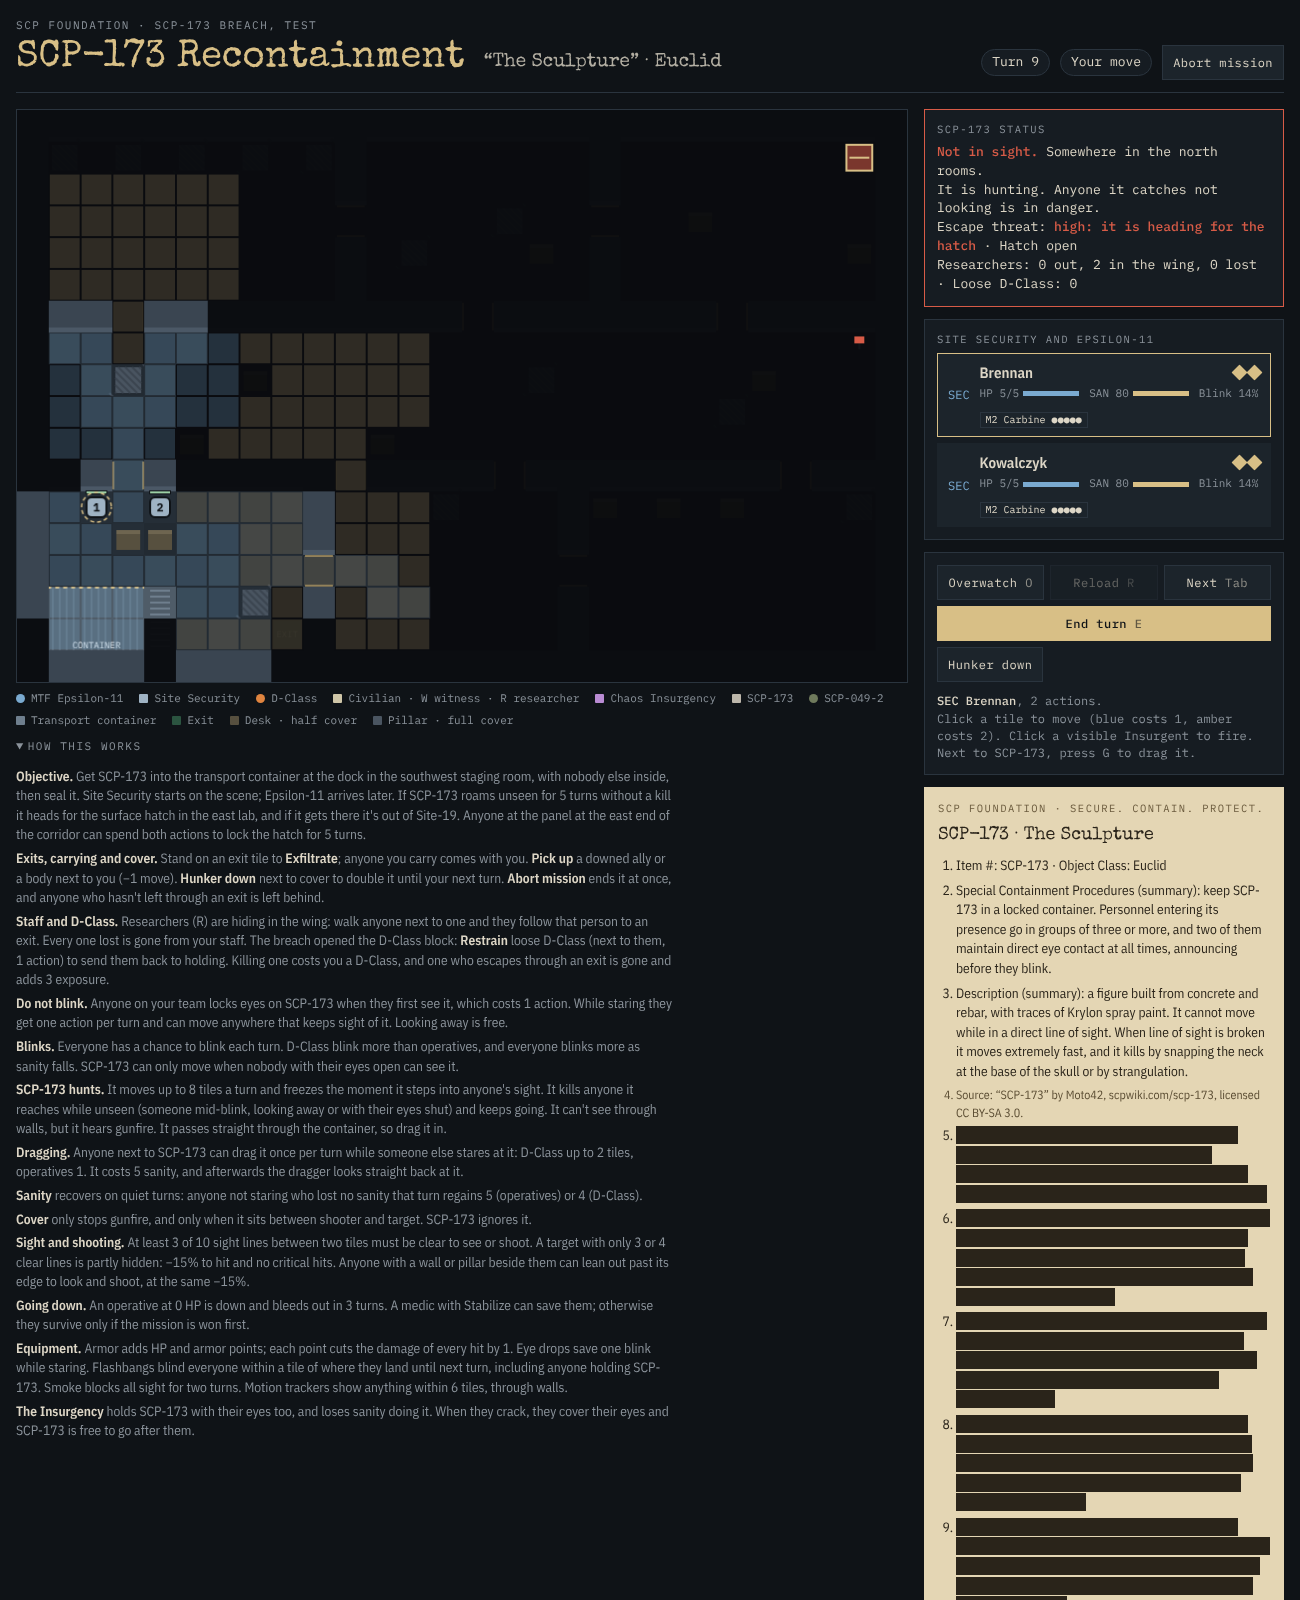
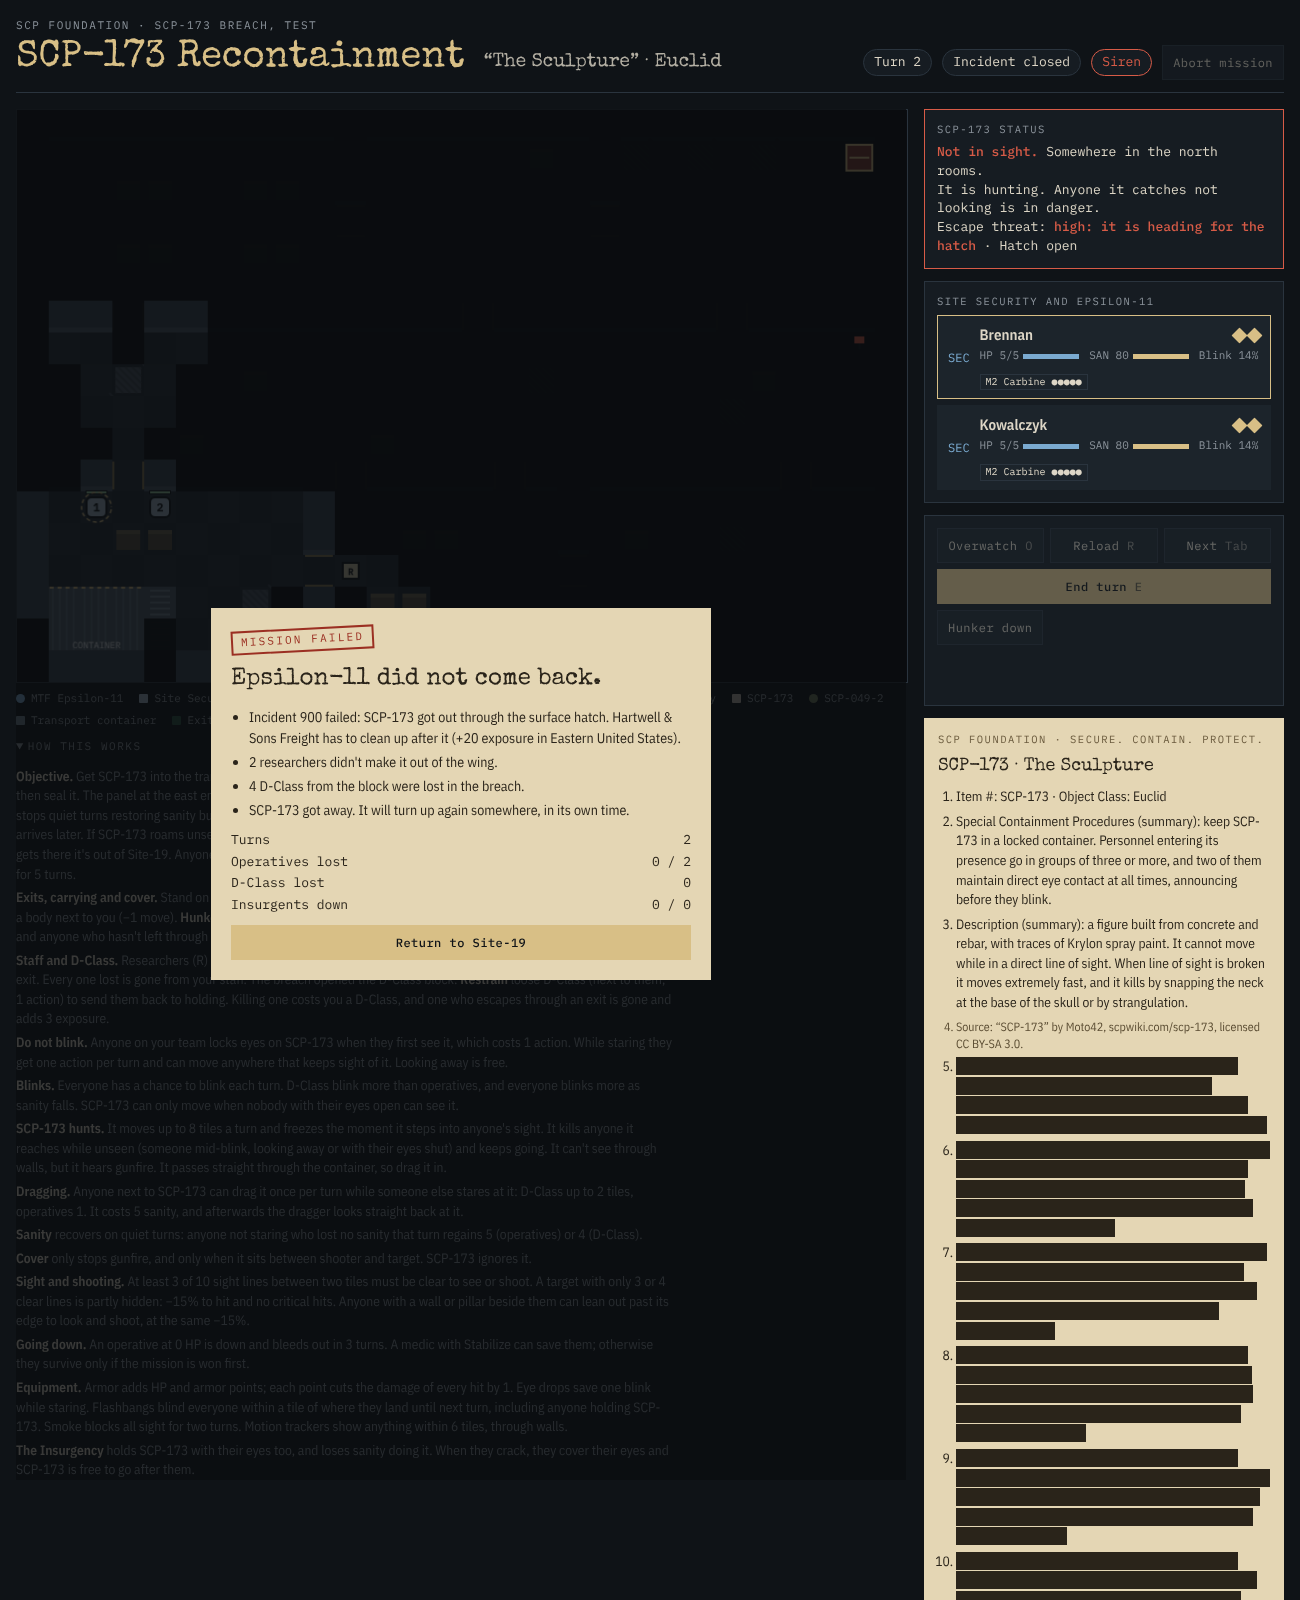
Blast doors and the breach siren
At the Wing C panel guards can seal up to two doorways with blast doors
(SCP-106 walks through them) and silence the breach siren, which stops
quiet-turn sanity recovery but hides gunfire from SCP-173. Completes
phase 3C.

diff --git a/src/ui/missionView.ts b/src/ui/missionView.ts
@@ -29,7 +29,7 @@ import type { MissionResult, Unit } from "../game/types";
 import { esc } from "./util";
 import { createRenderer } from "./render";
 import { ESCAPE_AT, escaping } from "../game/scp173";
-import { ESCORT_TURNS } from "../game/turn";
+import { ESCORT_TURNS, MAX_SEALED } from "../game/turn";
 import { freshBodies, isCalm, isStaggered } from "../game/scp049";
 import { bait, isFeeding } from "../game/scp106";
 import { MAPS } from "../data/maps";
@@ -44,6 +44,7 @@ const TEMPLATE = `
     <div class="turnbox">
       <span class="pill" id="turnPill">Turn 1</span>
       <span class="pill" id="phasePill">Your move</span>
+      <span class="pill hot" id="sirenPill" hidden title="The breach siren: nobody recovers sanity on quiet turns, but SCP-173 can't hear where shots come from. Silence it at the panel.">Siren</span>
       <span class="pill" id="nightPill" hidden title="Night: everyone sees 4 tiles less, except inside a flare's light.">Night</span>
       <span class="pill" id="concealPill" hidden title="Insurgents haven't noticed the team. They only spot you within 4 tiles. Firing or throwing anything gives you away.">Concealed</span>
       <button class="act" id="evacBtn" type="button" title="Ends the mission. Anyone who hasn't left through an exit is left behind.">Abort mission</button>
@@ -160,7 +161,7 @@ export function mountMission(root: HTMLElement, onReturn: () => void, debrief: (
     $("objRule").after(exits);
   }
   if (kind === "breach" && has173) {
-    $("objRule").innerHTML = `<b>Objective.</b> Get SCP-173 into the transport container at the dock in the southwest staging room, with nobody else inside, then seal it. Site Security starts on the scene; Epsilon-11 arrives later. If SCP-173 roams unseen for ${ESCAPE_AT} turns without a kill it heads for the surface hatch in the east lab, and if it gets there it's out of Site-19. Anyone at the panel at the east end of the corridor can spend both actions to lock the hatch for ${S.setup.mods.lockdownTurns} turns.`;
+    $("objRule").innerHTML = `<b>Objective.</b> Get SCP-173 into the transport container at the dock in the southwest staging room, with nobody else inside, then seal it. The panel at the east end of the corridor also seals blast doors (up to ${MAX_SEALED}) and silences the breach siren, which stops quiet turns restoring sanity but hides your gunfire from SCP-173. Site Security starts on the scene; Epsilon-11 arrives later. If SCP-173 roams unseen for ${ESCAPE_AT} turns without a kill it heads for the surface hatch in the east lab, and if it gets there it's out of Site-19. Anyone at the panel at the east end of the corridor can spend both actions to lock the hatch for ${S.setup.mods.lockdownTurns} turns.`;
   }
   const cv = $("cv") as HTMLCanvasElement;
   const draw = createRenderer(cv);
@@ -241,6 +242,7 @@ export function mountMission(root: HTMLElement, onReturn: () => void, debrief: (
     $("phasePill").className = "pill" + (S.phase === "anomaly" ? " hot" : "");
     $("concealPill").hidden = !S.concealed;
     $("nightPill").hidden = !S.setup.night;
+    $("sirenPill").hidden = !S.siren;
 
     const sc = $("statusCard"), line = $("statusLine");
     if (S.has106) {
@@ -342,7 +344,8 @@ export function mountMission(root: HTMLElement, onReturn: () => void, debrief: (
     else if (!can) h = S.over ? "" : "Enemy activity…";
     else if (sel) {
       const hv = S.hover && unitAt(S.hover.x, S.hover.y);
-      if (S.mode === "lead") h = `<b>SCP-049 is listening.</b>\nClick a green tile to lead it there (up to 3 tiles), or press Escape to leave it where it stands.`;
+      if (S.mode === "doors") h = `<b>Blast doors.</b>\nClick a doorway to seal it (up to ${MAX_SEALED}) or to open a sealed one. Escape to cancel.`;
+      else if (S.mode === "lead") h = `<b>SCP-049 is listening.</b>\nClick a green tile to lead it there (up to 3 tiles), or press Escape to leave it where it stands.`;
       else if (S.mode === "ability" && S.ability) h = `<b>${esc(full(sel))}: ${abilityName(S.ability)}.</b>\n${esc(abilityDesc(S.ability))} Click a highlighted target.`;
       else if (S.mode === "throw" && S.throwing) h = `<b>${esc(full(sel))}: choose where to throw the ${ITEM_NAMES[S.throwing.id].toLowerCase()}.</b>\nLit tiles are in range and in sight. It covers the target tile and every tile around it. Throwing ends their turn.`;
       else if (S.mode === "drag") h = `<b>${esc(sel.name)}: choose where to drag SCP-173.</b>\nOrange tiles keep it in someone else's sight the whole way. Dragging ends their turn.`;

diff --git a/src/game/abilities.ts b/src/game/abilities.ts
@@ -34,11 +34,13 @@ export const ABILITIES: AbilityDef[] = [
   { perk: "exfil", label: "Exfiltrate", target: "self", when: u => onExit(u), desc: "Leave the mission through this exit. Anyone you carry, and researchers following you, come too." },
   { perk: "hunker", label: "Hunker down", target: "self", endsTurn: true, when: u => !u.carrying && hasCover(u), desc: "Get low behind cover: it counts double until your next turn." },
   { perk: "calm", label: "Calm SCP-049", target: "doctor", desc: "Talk SCP-049 down from within 3 tiles (6 sanity). It won't act on its next turn, and you lead it up to 3 tiles now." },
+  { perk: "doors", label: "Blast doors", target: "panel", desc: "At the panel: seal a doorway with a blast door, or open one (up to 2 sealed). Sealed doors block everyone but SCP-106." },
+  { perk: "siren", label: "Silence the siren", target: "panel", desc: "At the panel: switch the breach siren off or on. While it wails nobody recovers sanity, but SCP-173 can't hear where your shots come from." },
   { perk: "lockdown", label: "Lock the hatch", target: "panel", endsTurn: true, desc: "At the lockdown panel: seal the surface hatch so SCP-173 can't get out that way for a few turns. Takes both actions." },
   { perk: "dose", label: "Dose with amnestics", target: "witness", desc: "Give an adjacent witness amnestics. They forget what they saw and stop running." },
 ];
 
-const UNIVERSAL: AbilityId[] = ["secure", "dose", "lockdown", "calm", "restrain", "pickup", "drop", "exfil", "hunker"];
+const UNIVERSAL: AbilityId[] = ["secure", "dose", "lockdown", "doors", "siren", "calm", "restrain", "pickup", "drop", "exfil", "hunker"];
 const onExit = (u: Unit) => L.exitMap[u.y * L.W + u.x] === 0;
 const hasCover = (u: Unit) => DIRS.some(([dx, dy]) => { const t = tileAt(u.x + dx, u.y + dy); return t === WALL || t === FULL || t === HALF || t === STEEL; });
 const knows = (u: Unit, p: AbilityId) => UNIVERSAL.includes(p)
@@ -70,7 +72,9 @@ export function abilityTargets(u: Unit, p: AbilityId): Unit[] {
     }
     case "panel": {
       const pn = L.def.panel;
-      return pn && S.has173 && !S.sealed && !u.staring && S.lockedUntil < S.turn && cheb(u.x, u.y, pn[0], pn[1]) <= 1 ? [u] : [];
+      const at = !!pn && !u.staring && cheb(u.x, u.y, pn[0], pn[1]) <= 1;
+      if (p === "doors" || p === "siren") return at && S.setup.kind === "breach" ? [u] : [];
+      return at && S.has173 && !S.sealed && S.lockedUntil < S.turn ? [u] : [];
     }
     case "ally": return team().filter(a => adjacent(u, a) && (p === "medkit" ? a.hp < a.maxHp && a.side === "mtf" : a.san < maxSanOf(a)));
     case "downed": return S.units.filter(a => a.alive && a.downed && !a.stabilized && adjacent(u, a));
@@ -106,6 +110,7 @@ export function startAbility(p: AbilityId, flash: (t: string) => void) {
   if (S.mode === "ability" && S.ability === p) { S.mode = null; S.ability = null; hooks.update(); return; }
   const why = abilityCheck(u, p);
   if (why) { flash(why); return; }
+  if (p === "doors") { if (u.ap < 1) { flash("No actions left this turn."); return; } S.mode = "doors"; hooks.update(); return; }
   if (def(p).target === "self" || def(p).target === "panel") { useAbility(u, p, u); return; }
   if (def(p).target === "doctor") { useAbility(u, p, S.statue); return; }
   S.mode = "ability"; S.ability = p; S.pending = null;
@@ -164,6 +169,10 @@ export function useAbility(u: Unit, p: AbilityId, t: Unit) {
       S.mode = "lead"; S.selected = u;
       hooks.update();
       return;
+    case "siren":
+      S.siren = !S.siren;
+      log(S.siren ? `${full(u)} switches the breach siren back on.` : `${full(u)} silences the breach siren. In the quiet, everyone can think again, and anything listening can hear the shots.`, "key");
+      break;
     case "lockdown":
       S.lockedUntil = S.turn + S.setup.mods.lockdownTurns;
       log(`${full(u)} throws the lockdown: the surface hatch is sealed until turn ${S.lockedUntil + 1}.`, "good");

diff --git a/src/game/turn.ts b/src/game/turn.ts
@@ -1,5 +1,5 @@
 // Player actions and the turn cycle: your move, SCP-173, the Insurgency, then loose D-Class.
-import { FLOOR, HALF, L, TS, cheb, inContainer, nearContainer, pathTo, bfs, canStep, passable, setSlow, setVault, tileAt, DIRS, type Pt } from "../core/grid";
+import { FLOOR, HALF, L, STEEL, TS, area, cheb, inContainer, nearContainer, pathTo, bfs, canStep, passable, setSlow, setVault, tileAt, DIRS, type Pt } from "../core/grid";
 import { setSmoke, sightFrom } from "../core/sight";
 import { activeGun, damage, fire, kill, moveUnit } from "./combat";
 import { TYPES } from "../data/weapons";
@@ -194,6 +194,7 @@ export async function onTap(x: number, y: number, touch: boolean, flash: (t: str
     if (S.pending && S.pending.x === x && S.pending.y === y) return true;
     S.pending = { x, y }; S.hover = { x, y }; hooks.update(); return false;
   };
+  if (S.mode === "doors") { toggleDoor(x, y, flash); return; }
   if (S.mode === "lead") {
     if (!leadOptions().has(y * L.W + x)) { flash("SCP-049 can be led up to 3 tiles along open floor."); return; }
     if (!confirm()) return;
@@ -479,7 +480,26 @@ function doThrow(u: Unit, item: NonNullable<Unit["items"]>[number], x: number, y
 }
 
 // Quiet turns restore sanity: not staring, and no sanity lost this turn.
+/** Seal or open a doorway from the panel. Sealed doors are steel: nothing passes or sees through but SCP-106. */
+export const MAX_SEALED = 2;
+export function toggleDoor(x: number, y: number, flash: (t: string) => void) {
+  const u = S.selected, i = y * L.W + x;
+  if (!u || !L.doors.has(i)) { flash("Click a doorway."); return; }
+  if (S.lockedDoors.includes(i)) {
+    S.lockedDoors = S.lockedDoors.filter(d => d !== i); L.grid[y][x] = FLOOR;
+    log(`${full(u)} opens the blast door in the ${area(x, y)}.`, "key");
+  } else {
+    if (S.lockedDoors.length >= MAX_SEALED) { flash(`Only ${MAX_SEALED} doors can be sealed at once. Open one first.`); return; }
+    if (S.units.some(v => v.alive && !v.saved && v.x === x && v.y === y)) { flash("Someone is standing in the doorway."); return; }
+    S.lockedDoors.push(i); L.grid[y][x] = STEEL;
+    log(`${full(u)} seals the blast door in the ${area(x, y)}.`, "key");
+  }
+  u.ap -= 1; S.mode = null;
+  afterAction();
+}
+
 function recoverSanity() {
+  if (S.siren) return;   // nobody settles down with the alarm going
   for (const m of team()) {
     if (m.staring || m.lostSanTurn === S.turn) continue;
     m.san = Math.min(maxSanOf(m), m.san + prof(m).recover + (m.side === "mtf" ? S.setup.mods.recoverBonus : 0));

diff --git a/src/game/types.ts b/src/game/types.ts
@@ -3,7 +3,7 @@
 import type { ClassId, PerkId, TraitId } from "../data/classes";
 export type { ClassId, PerkId, TraitId };
 /** Class abilities plus Secure, which every operative can do. */
-export type AbilityId = PerkId | "secure" | "dose" | "lockdown" | "calm" | "restrain" | "pickup" | "drop" | "exfil" | "hunker";
+export type AbilityId = PerkId | "secure" | "dose" | "lockdown" | "doors" | "siren" | "calm" | "restrain" | "pickup" | "drop" | "exfil" | "hunker";
 
 import type { AmmoId, AttachmentId, WeaponType } from "../data/weapons";
 export type { AmmoId, AttachmentId, WeaponType };
@@ -235,7 +235,7 @@ export interface MissionState {
   busy: boolean;
   over: boolean;
   called: boolean;
-  mode: "drag" | "throw" | "ability" | "lead" | null;
+  mode: "drag" | "throw" | "ability" | "lead" | "doors" | null;
   ability: AbilityId | null;
   units: Unit[];
   statue: Unit;
@@ -258,6 +258,9 @@ export interface MissionState {
   effects: Effect[];
   stats: { mtfLost: number; dLost: number; escaped: number; raidersDown: number };
   smoke: { x: number; y: number; until: number }[];
+  /** Site-19 breaches: the alarm siren, and doorways sealed with blast doors from the panel. */
+  siren: boolean;
+  lockedDoors: number[];
   /** Escorts: the Insurgency got the truck open. */
   stolen?: boolean;
   /** Flares burning on the ground at night. */

diff --git a/src/ui/render.ts b/src/ui/render.ts
@@ -279,6 +279,11 @@ export function createRenderer(cv: HTMLCanvasElement) {
       ctx.strokeStyle = "#7d6f5a"; ctx.lineWidth = 3;
       ctx.beginPath(); ctx.moveTo(cx - 7, cy - 7); ctx.lineTo(cx + 7, cy + 7); ctx.moveTo(cx + 7, cy - 7); ctx.lineTo(cx - 7, cy + 7); ctx.stroke();
     }
+    // choosing a doorway to seal or open
+    if (playing && S.mode === "doors") {
+      for (const i of L.doors) { const x = i % L.W, y = (i / L.W) | 0; ctx.strokeStyle = S.lockedDoors.includes(i) ? C.ok : C.manila; ctx.lineWidth = 2; ctx.strokeRect(x * TS + 3, y * TS + 3, TS - 6, TS - 6); }
+    }
+    for (const i of S.lockedDoors) { const x = i % L.W, y = (i / L.W) | 0; tag("SEALED", x * TS + TS / 2, y * TS + TS / 2, C.manila); }
     // leading a calmed SCP-049
     if (playing && S.mode === "lead") {
       ctx.fillStyle = "rgba(134,193,147,0.25)";

diff --git a/src/game/scp173.ts b/src/game/scp173.ts
@@ -49,7 +49,8 @@ function perceive(blinked: Set<Unit>) {
 // Where to head with no one to kill in view: the freshest lead, else a room it hasn't searched.
 function goal173(): Pt[] {
   const st = S.statue;
-  const leads = [...S.mem.values()].filter(m => m.x !== st.x || m.y !== st.y);
+  // the breach siren drowns out gunfire, so shots tell it nothing while it wails
+  const leads = [...S.mem.entries()].filter(([k, m]) => (m.x !== st.x || m.y !== st.y) && !(S.siren && (k.startsWith("shot-") || k.startsWith("bang-")))).map(([, m]) => m);
   if (leads.length) {
     const newest = Math.max(...leads.map(m => m.turn));
     return leads.filter(m => m.turn === newest).map(m => [m.x, m.y] as Pt);

diff --git a/src/game/mission.ts b/src/game/mission.ts
@@ -133,6 +133,7 @@ export function createMission(setup: MissionSetup) {
       ...(setup.squad.length ? [{ turn: setup.mtfTurn ?? 30, members: setup.squad }] : []),
     ] : [],
     escapeDrive: 0, lockedUntil: 0, escaped: false, photos: [],
+    siren: setup.kind === "breach", lockedDoors: [],
   };
   setMission(state);
   setSmoke([]);

diff --git a/docs/ROADMAP.md b/docs/ROADMAP.md
@@ -65,11 +65,11 @@ Done alongside part 1
 - Depth bonus: containment wings are 10% less likely to breach per level below the top, and 5 points less likely to
   escape when the guards handle a breach alone, but Epsilon-11 takes a turn longer per level to arrive.
 
-## Phase 3C: tactical depth
+## Phase 3C (done): tactical depth
 
 From the XCOM 2 comparison, plus harder breaches. Order: (1) harder breaches, hunker down, carrying and exits
 (done); (2) concealment and enemy pods (done); (3) maps assembled from room plots (done); (4) night missions, escorts and
-retaliation (done); (5) doors and sirens.
+retaliation (done); (5) doors and sirens (done).
 
 - Breaches: 1 to 3 researchers are caught in the wing. Walk someone next to one and they follow that person to an exit.
   Dead researchers come off the staff count; each rescue is a small sanity boost.
@@ -79,7 +79,8 @@ retaliation (done); (5) doors and sirens.
 - Escort missions as the second half of distant field captures: the convoy home, with an ambush chance.
 - Night missions (set by the hour on the clock): shorter sight range, flares as an item.
 - Retaliation: the Insurgency attacks a town where you just captured something, to draw your squad out.
-- Lockable doors from panels during breaches (SCP-106 ignores them); alarm lights and sirens that attract sound hunters.
+- Blast doors sealed from the Wing C panel (up to 2; SCP-106 ignores them); the breach siren, which blocks quiet-turn
+  sanity recovery but hides gunfire from SCP-173 (and will draw sound hunters like SCP-939 later).
 
 - Concealment: strikes and cover-ups start hidden; firing or being seen breaks it. Witnesses only run once it's broken.
 - Enemy pods: Insurgents in fire teams that activate together when spotted, then scramble to cover.
